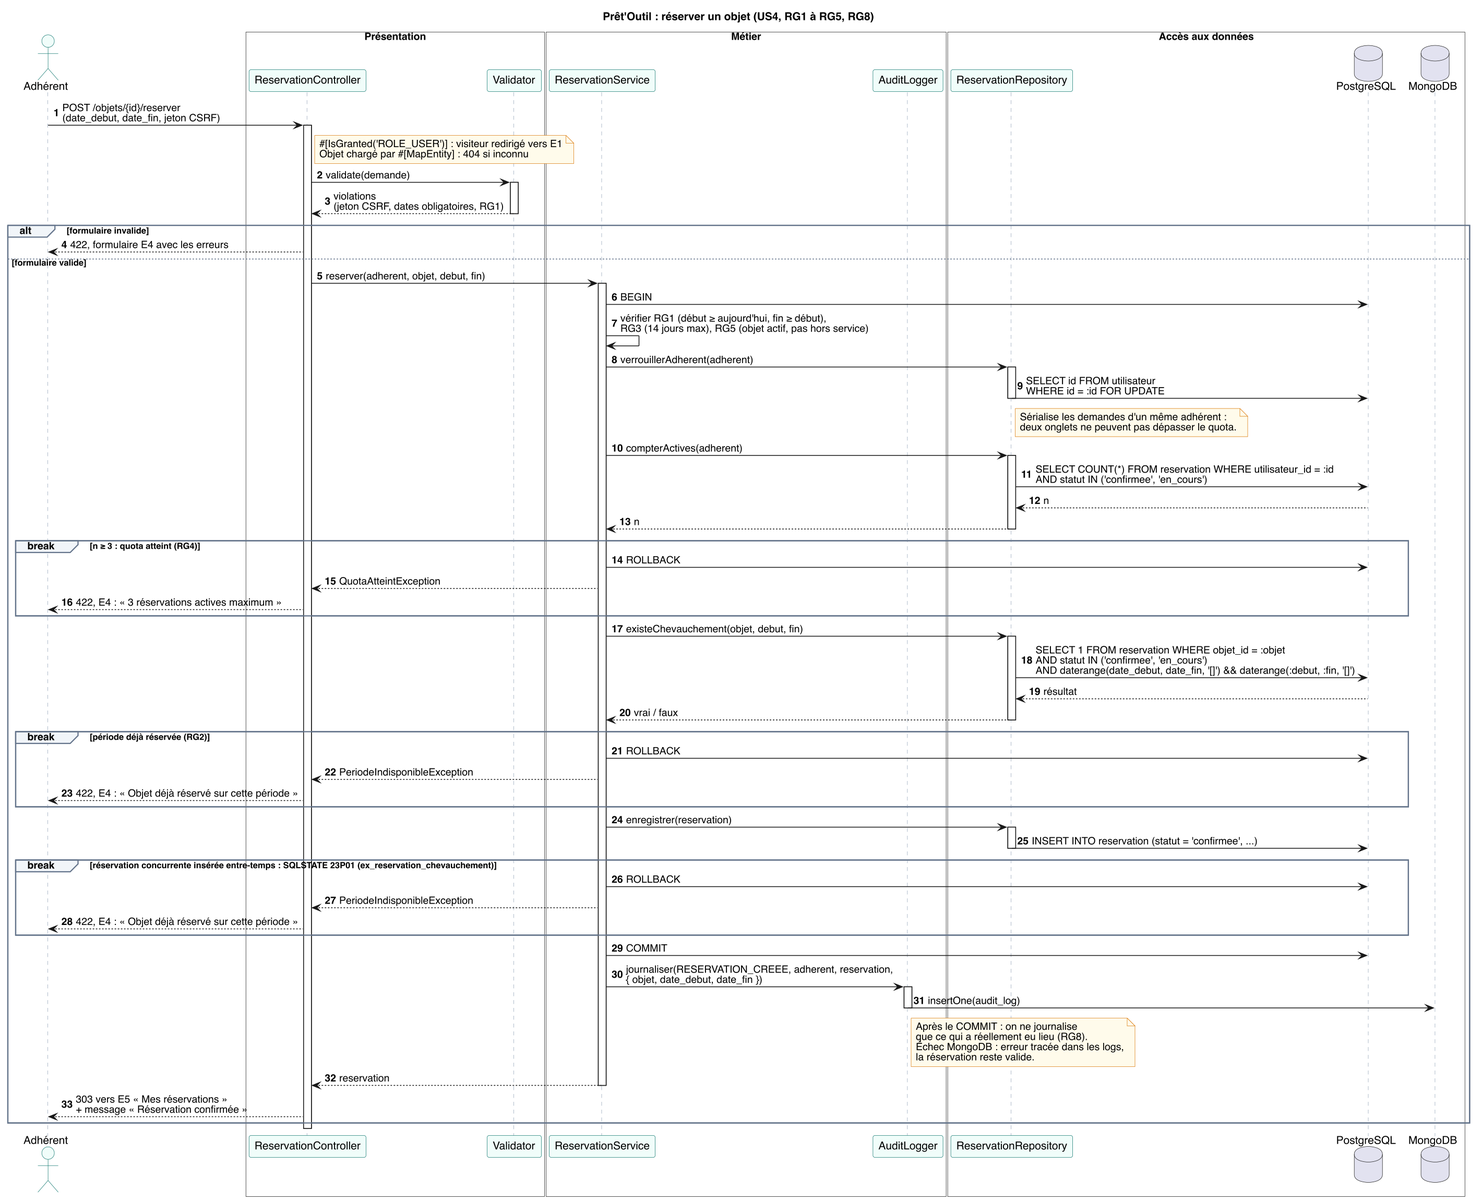
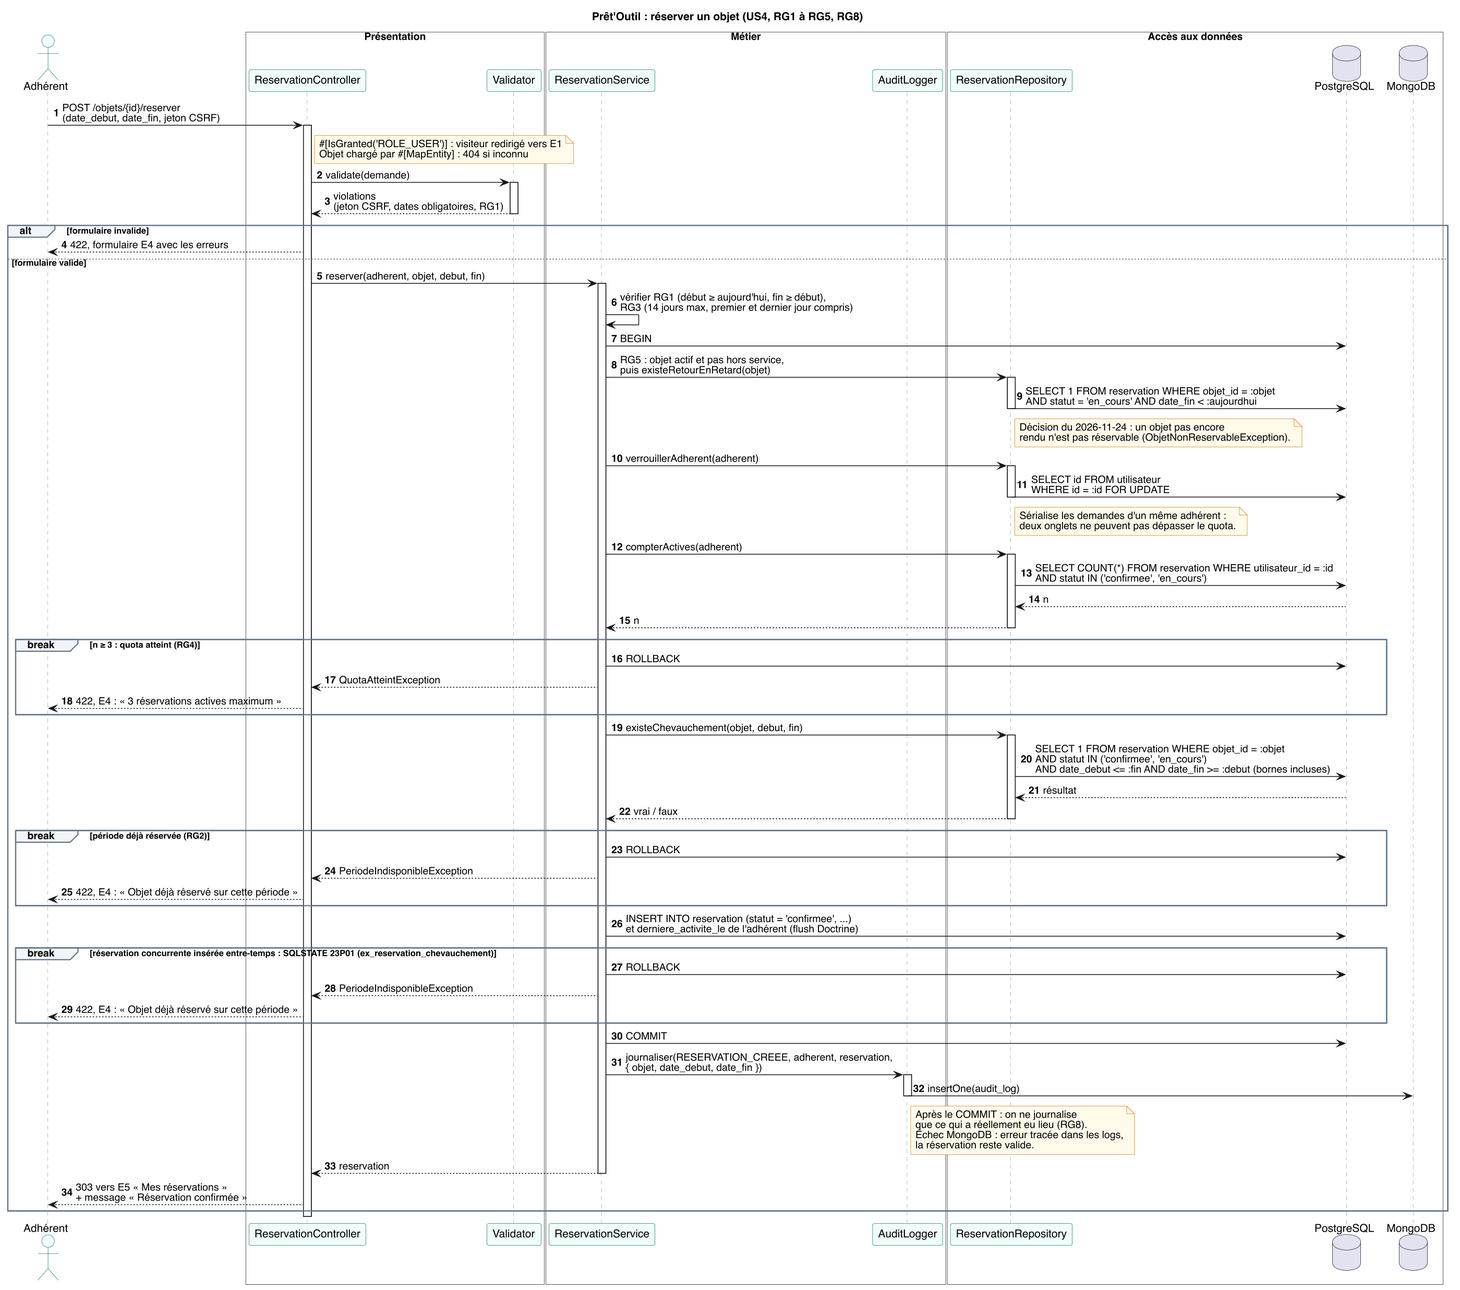
docs(reservation): documente ReservationService et aligne le diagramme de séquence
Le diagramme de séquence doit refléter le code présenté au jury : vérifications avant la transaction, retour en retard et enregistrement par Doctrine. La documentation rassemble les règles, les exceptions et les 16 cas vérifiés.

diff --git a/docs/conception/reservation_service_tests.php b/docs/conception/reservation_service_tests.php
@@ -1,0 +1,64 @@
+<?php
+// Prêt'Outil : vérification de ReservationService sur les fixtures (ticket #44).
+// Prérequis : fixtures chargées le jour même. ATTENTION : enregistre et annule des réservations ;
+// recharger les fixtures ensuite (doctrine:fixtures:load --em=proprietaire).
+// Exécution : docker compose exec -T php php < docs/conception/reservation_service_tests.php 2>/tmp/sql.log
+// Affiche un tableau Markdown : n°, cas, attendu, obtenu.
+require '/app/vendor/autoload.php';
+(new Symfony\Component\Dotenv\Dotenv())->bootEnv('/app/.env');
+$kernel = new App\Kernel('dev', true); $kernel->boot();
+$conteneur = $kernel->getContainer();
+$doctrine = $conteneur->get('doctrine');
+$em = $doctrine->getManager();
+// Construction explicite (comme l'autowiring) : le conteneur de dev ne rend pas les services privés.
+$horloge = new Symfony\Component\Clock\NativeClock();
+$audit = new App\Service\AuditLogger();
+$reservations = $doctrine->getRepository(App\Entity\Reservation::class);
+$service = new App\Service\ReservationService($em, $reservations, $audit, $horloge);
+$utilisateur = fn(string $email) => $doctrine->getRepository(App\Entity\Utilisateur::class)->findOneBy(['email' => $email]);
+$objet = fn(string $nom) => $doctrine->getRepository(App\Entity\Objet::class)->findOneBy(['nom' => $nom]);
+$j = fn(int $n) => new DateTimeImmutable("today $n days");
+$lignes = [];
+$essai = function (string $cas, string $attendu, callable $action) use (&$lignes, $em) {
+    try { $r = $action(); $obtenu = $r instanceof App\Entity\Reservation ? 'acceptée (statut '.$r->getStatut()->value.')' : 'acceptée'; }
+    catch (App\Exception\ReservationRefuseeException $e) { $obtenu = (new ReflectionClass($e))->getShortName().' : '.$e->getMessage(); }
+    catch (Throwable $e) { $obtenu = 'ERREUR '.get_class($e).' : '.$e->getMessage(); }
+    $lignes[] = [$cas, $attendu, $obtenu];
+};
+// Comptes : Camille (2 actives), Noah (3, quota atteint), Sacha (1), Léa (1, pour RG2).
+$camille = $utilisateur('adherent@pretoutil.test'); $noah = $utilisateur('adherent.quota@pretoutil.test'); $sacha = $utilisateur('admin@pretoutil.test'); $lea = $utilisateur('gestionnaire@pretoutil.test');
+
+$essai('Réservation valide (Brouette, J+5 à J+6)', 'acceptée (statut confirmee)', fn() => $service->reserver($camille, $objet('Brouette'), $j(5), $j(6)));
+$lignes[count($lignes)-1][2] .= $camille->getDerniereActiviteLe() ? ', dernière activité mise à jour' : ', dernière activité NON mise à jour';
+$lignes[count($lignes)-1][1] .= ', dernière activité mise à jour';
+$essai('RG1 : fin avant début', 'PeriodeInvalideException', fn() => $service->reserver($sacha, $objet('Brouette'), $j(9), $j(8)));
+$essai('RG1 : début hier', 'PeriodeInvalideException', fn() => $service->reserver($sacha, $objet('Brouette'), $j(-1), $j(2)));
+$essai('RG1 : début aujourd\'hui', 'acceptée', fn() => $service->reserver($sacha, $objet('Lampe frontale'), $j(0), $j(1)));
+$essai('RG3 : 15 jours (J+20 à J+34)', 'DureeDepasseeException', fn() => $service->reserver($sacha, $objet('Escabeau 5 marches'), $j(20), $j(34)));
+$essai('RG3 : 14 jours exactement (J+20 à J+33)', 'acceptée', fn() => $service->reserver($sacha, $objet('Escabeau 5 marches'), $j(20), $j(33)));
+$essai('RG5 : objet désactivé (Motobineuse)', 'ObjetNonReservableException', fn() => $service->reserver($camille, $objet('Motobineuse'), $j(30), $j(31)));
+$essai('RG5 : objet hors service (Meuleuse)', 'ObjetNonReservableException', fn() => $service->reserver($camille, $objet("Meuleuse d'angle 125 mm"), $j(30), $j(31)));
+$essai('Retour en retard (Glacière, J+30)', 'ObjetNonReservableException', fn() => $service->reserver($camille, $objet('Glacière électrique'), $j(30), $j(31)));
+$essai('RG4 : 4e réservation active (adhérent quota)', 'QuotaAtteintException', fn() => $service->reserver($noah, $objet('Paddle gonflable'), $j(30), $j(31)));
+$essai('RG2 : chevauchement (Tente, J+8 à J+10)', 'PeriodeIndisponibleException', fn() => $service->reserver($lea, $objet('Tente 4 places'), $j(8), $j(10)));
+$essai('RG2 : période qui commence le lendemain de la fin (Tente, J+10)', 'acceptée', fn() => $service->reserver($lea, $objet('Tente 4 places'), $j(10), $j(11)));
+// Accès simultanés : un repository qui ne voit pas le chevauchement, comme si une autre requête
+// avait inséré sa réservation entre la vérification et l'INSERT. La contrainte EXCLUDE doit refuser.
+$aveugle = new class($doctrine) extends App\Repository\ReservationRepository {
+    public function existeChevauchement(App\Entity\Objet $objet, DateTimeImmutable $debut, DateTimeImmutable $fin): bool { return false; }
+};
+$serviceAveugle = new App\Service\ReservationService($em, $aveugle, $audit, $horloge);
+$essai('RG2 en accès simultanés : contrainte EXCLUDE (23P01)', 'PeriodeIndisponibleException', fn() => $serviceAveugle->reserver($lea, $objet('Tente 4 places'), $j(8), $j(9)));
+$lignes[count($lignes)-1][2] .= ', en base : '.$em->getConnection()->fetchOne("select count(*) from reservation r join objet o on o.id = r.objet_id where o.nom = 'Tente 4 places' and r.date_debut = current_date + 8").' réservation';
+$lignes[count($lignes)-1][1] .= ', en base : 0 réservation';
+// Après l'échec du flush, Doctrine ferme l'EntityManager : on repart d'un gestionnaire neuf.
+$doctrine->resetManager(); $em = $doctrine->getManager(); $reservations = $doctrine->getRepository(App\Entity\Reservation::class);
+$service = new App\Service\ReservationService($em, $reservations, $audit, $horloge);
+$noah = $utilisateur('adherent.quota@pretoutil.test');
+$aAnnuler = $reservations->findOneBy(['utilisateur' => $noah, 'statut' => App\Enum\StatutReservation::Confirmee], ['dateDebut' => 'DESC']);
+$essai('Annuler une réservation confirmée (Taille-haie)', 'acceptée, statut annulee', function () use ($service, $aAnnuler, $noah) { $service->annuler($aAnnuler, $noah); return 'acceptée, statut '.$aAnnuler->getStatut()->value; });
+$lignes[count($lignes)-1][2] = 'acceptée, statut '.$aAnnuler->getStatut()->value;
+$essai('Annulation : la réservation annulée ne compte plus dans le quota', 'acceptée (statut confirmee)', fn() => $service->reserver($noah, $objet('Paddle gonflable'), $j(30), $j(31)));
+$enCours = $reservations->findOneBy(['utilisateur' => $noah, 'statut' => App\Enum\StatutReservation::EnCours]);
+$essai('Annuler une réservation en cours', 'AnnulationImpossibleException', fn() => $service->annuler($enCours, $noah));
+foreach ($lignes as $i => [$cas, $att, $obt]) { printf("| %d | %s | %s | %s |\n", $i + 1, $cas, $att, $obt); }

diff --git a/docs/conception/reservation-service.md b/docs/conception/reservation-service.md
@@ -1,0 +1,75 @@
+# ReservationService : règles de réservation
+
+Ticket : [#44 J5-A1 ReservationService et exceptions métier (RG1 à RG6)](https://github.com/IamArayel/MSP2-PretOutil/issues/44)
+
+Cœur métier de l'application (US4, US5). Le déroulé suit le [diagramme de séquence « Réserver un objet »](../diagrammes/sequence-reserver.md), mis à jour après l'implémentation.
+
+## 1. Interface
+
+| Méthode | Rôle | Exceptions |
+|---|---|---|
+| `reserver(Utilisateur $adherent, Objet $objet, \DateTimeImmutable $debut, \DateTimeImmutable $fin): Reservation` | Enregistre une réservation confirmée après avoir vérifié RG1 à RG5 | Voir section 2 |
+| `annuler(Reservation $reservation, Utilisateur $adherent): void` | Passe une réservation confirmée au statut annulée | `AnnulationImpossibleException` |
+
+Les droits sont vérifiés avant l'appel, par le contrôleur : adhérent connecté (`ROLE_USER`) pour réserver, `ReservationVoter::ANNULER` (propriétaire, jusqu'à la veille du début, RG6) pour annuler. Le service vérifie les règles de gestion.
+
+## 2. Règles et exceptions
+
+Toutes les exceptions héritent de `App\Exception\ReservationRefuseeException`. Leur message est destiné à l'adhérent : le contrôleur l'affiche tel quel, sans connaître la règle en cause.
+
+| Ordre | Règle | Exception | Message affiché |
+|---|---|---|---|
+| 1 | RG1 : fin après début | `PeriodeInvalideException` | La date de fin doit être après la date de début. |
+| 2 | RG1 : début aujourd'hui au plus tôt | `PeriodeInvalideException` | La réservation ne peut pas commencer dans le passé. |
+| 3 | RG3 : 14 jours au plus, premier et dernier jour compris | `DureeDepasseeException` | Une réservation dure 14 jours au maximum. |
+| 4 | RG5 : objet actif | `ObjetNonReservableException` | Cet objet ne fait plus partie du catalogue. |
+| 5 | RG5 : objet pas hors service | `ObjetNonReservableException` | Cet objet est hors service : il ne peut pas être réservé. |
+| 6 | Objet rendu par l'emprunteur précédent (décision du 2026-11-24) | `ObjetNonReservableException` | Cet objet n'a pas encore été rendu par l'emprunteur précédent... |
+| 7 | RG4 : 3 réservations actives au plus, sous verrou | `QuotaAtteintException` | Vous avez déjà 3 réservations en cours ou à venir : c'est le maximum. |
+| 8 | RG2 : pas de chevauchement (requête) | `PeriodeIndisponibleException` | Cet objet est déjà réservé sur une partie de cette période. Choisissez d'autres dates. |
+| 9 | RG2 en accès simultanés : contrainte `EXCLUDE` (SQLSTATE `23P01`) | `PeriodeIndisponibleException` | Même message |
+| | Annulation d'une réservation qui n'est plus confirmée | `AnnulationImpossibleException` | Cette réservation ne peut plus être annulée. |
+
+Les règles 1 à 3 ne dépendent que de la demande : elles sont vérifiées avant d'ouvrir la transaction. Les règles 4 à 9 sont vérifiées dans la transaction.
+
+## 3. Choix de conception
+
+| Choix | Raison |
+|---|---|
+| Une exception par règle, une classe mère commune | Le contrôleur intercepte la classe mère ; les tests et le dossier distinguent chaque règle |
+| Transaction ouverte sur la connexion, pas `wrapInTransaction()` | `wrapInTransaction()` ferme l'EntityManager à la moindre exception, y compris un refus métier ; l'écran E4 doit pouvoir s'afficher ensuite |
+| Verrou `SELECT ... FOR UPDATE` sur l'adhérent avant de compter (RG4) | Deux demandes simultanées du même adhérent passent l'une après l'autre |
+| Erreur `23P01` traduite en `PeriodeIndisponibleException` | La contrainte `EXCLUDE` couvre la course entre deux adhérents ; l'adhérent voit le même message que pour un chevauchement ordinaire |
+| Journalisation après le `COMMIT` | On ne journalise que ce qui a été enregistré (RG8) |
+| `derniere_activite_le` mise à jour à chaque réservation et annulation | Point de départ de la durée de conservation de 3 ans (RGPD, dictionnaire de données) |
+| Horloge injectée (`Psr\Clock\ClockInterface`) | « Aujourd'hui » se fixe dans les tests (J5-A2) |
+| Durée comptée premier et dernier jour compris | Du 12 au 25 = 14 jours : la règle telle que l'adhérent la comprend |
+
+Le filtre de disponibilité du catalogue applique les mêmes règles RG2, RG5 et retour en retard ([requetes-catalogue.md](requetes-catalogue.md)).
+
+## 4. Vérification sur les fixtures : 16 cas, 16 conformes
+
+Exécutée le 2026-11-24 avec [reservation_service_tests.php](reservation_service_tests.php) sur la base de développement, puis fixtures rechargées. J désigne le jour du chargement. Les tests unitaires de J5-A2 reprendront ces cas.
+
+| N° | Cas | Attendu | Obtenu |
+|---|---|---|---|
+| 1 | Réservation valide (Brouette, J+5 à J+6) | Acceptée, dernière activité mise à jour | Conforme |
+| 2 | RG1 : fin avant début | `PeriodeInvalideException` | Conforme |
+| 3 | RG1 : début hier | `PeriodeInvalideException` | Conforme |
+| 4 | RG1 : début aujourd'hui | Acceptée | Conforme |
+| 5 | RG3 : 15 jours | `DureeDepasseeException` | Conforme |
+| 6 | RG3 : 14 jours exactement | Acceptée | Conforme |
+| 7 | RG5 : objet désactivé | `ObjetNonReservableException` | Conforme |
+| 8 | RG5 : objet hors service | `ObjetNonReservableException` | Conforme |
+| 9 | Retour en retard (Glacière) | `ObjetNonReservableException` | Conforme |
+| 10 | RG4 : 4e réservation active | `QuotaAtteintException` | Conforme |
+| 11 | RG2 : chevauchement | `PeriodeIndisponibleException` | Conforme |
+| 12 | RG2 : période qui commence le lendemain de la fin d'une autre | Acceptée | Conforme |
+| 13 | RG2 en accès simultanés (repository qui ne voit pas le chevauchement) | `PeriodeIndisponibleException` par la contrainte `EXCLUDE`, rien en base | Conforme |
+| 14 | Annuler une réservation confirmée | Statut annulée | Conforme |
+| 15 | La réservation annulée ne compte plus dans le quota | Nouvelle réservation acceptée | Conforme |
+| 16 | Annuler une réservation en cours | `AnnulationImpossibleException` | Conforme |
+
+Le journal SQL confirme le verrou : une requête `SELECT 1 FROM utilisateur ... FOR UPDATE` par réservation tentée après les vérifications de RG5.
+
+**Écart du premier passage** : les cas 11 à 13 étaient refusés par `QuotaAtteintException`, parce que les comptes utilisés avaient atteint leur quota dans les cas précédents. Le service était correct (RG4 est vérifiée avant RG2, comme prévu) : le jeu d'essai a été corrigé en utilisant un compte qui n'avait qu'une réservation active.

diff --git a/docs/diagrammes/sequence-reserver.md b/docs/diagrammes/sequence-reserver.md
@@ -28,19 +28,19 @@ Les dépendances vont dans un seul sens : contrôleur, puis service, puis reposi
 | Règle | Étape(s) | Vérifiée par |
 |---|---|---|
 | Accès réservé aux adhérents connectés | 1 | `#[IsGranted('ROLE_USER')]` sur la route |
-| RG1 dates cohérentes et pas dans le passé | 2-3, 7 | Validator, puis service ; `ck_reservation_dates` en base |
-| RG2 pas de chevauchement | 17-23, 25-28 | Service (requête), puis `ex_reservation_chevauchement` en base |
-| RG3 14 jours maximum | 7 | Service |
-| RG4 3 réservations actives maximum | 8-16 | Service, sous verrou |
-| RG5 objet actif et pas hors service | 7 | Service |
-| RG8 journalisation | 30-31 | `AuditLogger`, après le `COMMIT` |
+| RG1 dates cohérentes et pas dans le passé | 2-3, 6 | Validator, puis service ; `ck_reservation_dates` en base |
+| RG2 pas de chevauchement | 19-25, 26-29 | Service (requête), puis `ex_reservation_chevauchement` en base |
+| RG3 14 jours maximum | 6 | Service |
+| RG4 3 réservations actives maximum | 10-18 | Service, sous verrou |
+| RG5 objet actif, pas hors service, rendu par l'emprunteur précédent | 8-9 | Service (décision du 2026-11-24 pour le retour en retard) |
+| RG8 journalisation | 31-32 | `AuditLogger`, après le `COMMIT` |
 
 ## 4. Choix de conception
 
 1. **Fragments `break` pour les refus.** Le ticket prévoyait des blocs `alt`. Un refus (quota, chevauchement) met fin au scénario : en UML, c'est le rôle du fragment `break`. Il évite d'imbriquer trois `alt` et garde le cas nominal lisible de haut en bas.
 2. **RG1 vérifiée deux fois.** Le Validator donne un retour immédiat sur le formulaire. Le service la revérifie, car il peut être appelé par un autre point d'entrée (commande, test) que le formulaire.
-3. **Verrou sur l'adhérent pour RG4** (étapes 8-9). Sans verrou, deux demandes simultanées du même adhérent liraient chacune « 2 réservations actives » et passeraient toutes les deux. `SELECT ... FOR UPDATE` sur sa ligne `utilisateur` les fait passer l'une après l'autre. Doctrine : `LockMode::PESSIMISTIC_WRITE`.
-4. **RG2 vérifiée par le service et par la base.** La requête de l'étape 18 permet un message clair dans le cas courant. La contrainte `EXCLUDE` couvre le cas rare de deux adhérents différents qui réservent le même objet au même instant : l'`INSERT` échoue avec le code SQLSTATE `23P01`, que le service traduit en `PeriodeIndisponibleException` (étapes 25-28).
+3. **Verrou sur l'adhérent pour RG4** (étapes 10-11). Sans verrou, deux demandes simultanées du même adhérent liraient chacune « 2 réservations actives » et passeraient toutes les deux. `SELECT ... FOR UPDATE` sur sa ligne `utilisateur` les fait passer l'une après l'autre. Doctrine : `LockMode::PESSIMISTIC_WRITE`.
+4. **RG2 vérifiée par le service et par la base.** La requête de l'étape 20 permet un message clair dans le cas courant. La contrainte `EXCLUDE` couvre le cas rare de deux adhérents différents qui réservent le même objet au même instant : l'`INSERT` échoue avec le code SQLSTATE `23P01`, que le service traduit en `PeriodeIndisponibleException` (étapes 26-29).
 5. **Exceptions métier.** Le service signale un refus par une exception dédiée (`QuotaAtteintException`, `PeriodeIndisponibleException`). Le contrôleur la convertit en message sur l'écran E4, sans connaître la règle.
 6. **Journalisation après le `COMMIT`.** On ne journalise que ce qui a réellement été enregistré. Si MongoDB est indisponible, la réservation reste valide et l'erreur est tracée dans les logs applicatifs : l'indisponibilité du journal ne bloque pas le service rendu à l'adhérent. Les refus ne sont pas journalisés, car `audit_log` trace les actions effectuées (liste des 11 actions du [dictionnaire](../conception/dictionnaire-donnees.md)).
 7. **Codes HTTP.** Erreur de saisie ou refus : `422` avec le formulaire E4 réaffiché. Succès : `303` vers E5 « Mes réservations » (motif Post/Redirect/Get, qui évite une double soumission en rafraîchissant la page).
@@ -50,8 +50,19 @@ Les dépendances vont dans un seul sens : contrôleur, puis service, puis reposi
 Les noms du diagramme deviennent ceux du code, conformément aux [conventions de nommage](../conception/conventions-nommage.md) :
 
 - `ReservationService::reserver(Utilisateur $adherent, Objet $objet, \DateTimeImmutable $debut, \DateTimeImmutable $fin): Reservation`
-- `ReservationRepository::verrouillerAdherent()`, `compterActives()`, `existeChevauchement()`, `enregistrer()`
+- `ReservationRepository::verrouillerAdherent()`, `compterActives()`, `existeChevauchement()`, `existeRetourEnRetard()` (`enregistrer()` a été remplacé par le flush Doctrine dans le service, voir section 6)
 - `AuditLogger::journaliser()`
 - `App\Exception\QuotaAtteintException`, `App\Exception\PeriodeIndisponibleException`
 
 Tests unitaires à prévoir sur le service (critère O5) : un test par branche du diagramme, soit cas nominal, quota atteint, période indisponible, conflit `23P01`, RG1, RG3 et RG5.
+
+## 6. Mise à jour du 2026-11-24 (implémentation, ticket #44)
+
+Le diagramme a été aligné sur `ReservationService` :
+
+- RG1 et RG3 sont vérifiées avant d'ouvrir la transaction : elles ne dépendent que de la demande ;
+- RG5 comprend le retour en retard (étapes 8-9), décidé par le binôme au début de J5 ;
+- l'`INSERT` est fait par le flush Doctrine dans le service, qui met aussi à jour `derniere_activite_le` de l'adhérent (point de départ de la conservation RGPD) ;
+- la requête de chevauchement compare les dates (bornes incluses), avec la même règle que la contrainte `EXCLUDE`.
+
+Les noms définitifs sont dans [reservation-service.md](../conception/reservation-service.md).

diff --git a/README.md b/README.md
@@ -217,6 +217,7 @@ Schéma complet (couches, conteneurs Docker, sécurité, éco-conception) : [doc
 | Dictionnaire de données (et RGPD) | [docs/conception/dictionnaire-donnees.md](docs/conception/dictionnaire-donnees.md) | |
 | Conventions de nommage | [docs/conception/conventions-nommage.md](docs/conception/conventions-nommage.md) | |
 | Requêtes du catalogue (vérification et plan d'exécution) | [docs/conception/requetes-catalogue.md](docs/conception/requetes-catalogue.md) | |
+| ReservationService : règles, exceptions et vérification | [docs/conception/reservation-service.md](docs/conception/reservation-service.md) | |
 | Diagramme de séquence « Réserver un objet » | [PlantUML](docs/diagrammes/sequence-reserver.puml), [note](docs/diagrammes/sequence-reserver.md) | [SVG](docs/diagrammes/sequence-reserver.svg), [PNG](docs/diagrammes/sequence-reserver.png) |
 | Schéma d'architecture | [PlantUML](docs/diagrammes/architecture.puml), [note](docs/diagrammes/architecture.md) | [SVG](docs/diagrammes/architecture.svg), [PNG](docs/diagrammes/architecture.png) |
 
@@ -630,3 +631,8 @@ Aucun mot de passe n'est versionné. `compose.yaml` transmet `.env.local` aux tr
 | 2026-11-24 | J5 en 4 tickets GitHub (#44 à #47) : `ReservationService` pour Anthony, tests du service et formulaire de réservation pour Chloé, relecture croisée ensemble | Le service suit le diagramme de séquence conçu par Anthony ; tester le code de l'autre oblige chacun à le comprendre, ce qui prépare l'entretien individuel |
 | 2026-11-24 | Signature de `reserver()` et exceptions métier poussées en premier | Le formulaire de réservation (#46) peut avancer en parallèle du service |
 | 2026-11-24 | Règle du retour en retard tranchée ensemble au début de J5 (#44) | Elle s'applique à la fois au service et au filtre du catalogue |
+| 2026-11-24 | Un objet dont le retour est en retard n'est pas réservable, et le catalogue ne l'annonce disponible sur aucune période | Décision du binôme : l'objet n'est physiquement pas là ; même règle dans `ReservationService` et dans le filtre du catalogue |
+| 2026-11-24 | Une exception métier par règle, sous une classe mère `ReservationRefuseeException` portant le message affiché | Le contrôleur affiche le refus sans connaître la règle ; les tests distinguent chaque règle |
+| 2026-11-24 | Transaction ouverte sur la connexion plutôt que `wrapInTransaction()` | `wrapInTransaction()` ferme l'EntityManager à toute exception, y compris un refus métier, ce qui empêcherait d'afficher l'écran E4 |
+| 2026-11-24 | Index partiel `idx_reservation_en_cours` et sous-requête non corrélée pour les retours en retard | Mesures `EXPLAIN` : 16 ms avec un `OR`, 83 ms avec un second `NOT EXISTS`, 4,6 ms stable avec l'index ; il servira aussi à l'écran E6 |
+| 2026-11-24 | `VACUUM ANALYZE` avant et après le script de mesure `EXPLAIN` | Ses insertions annulées laissaient 1,4 million de lignes mortes qui faussaient les plans |
